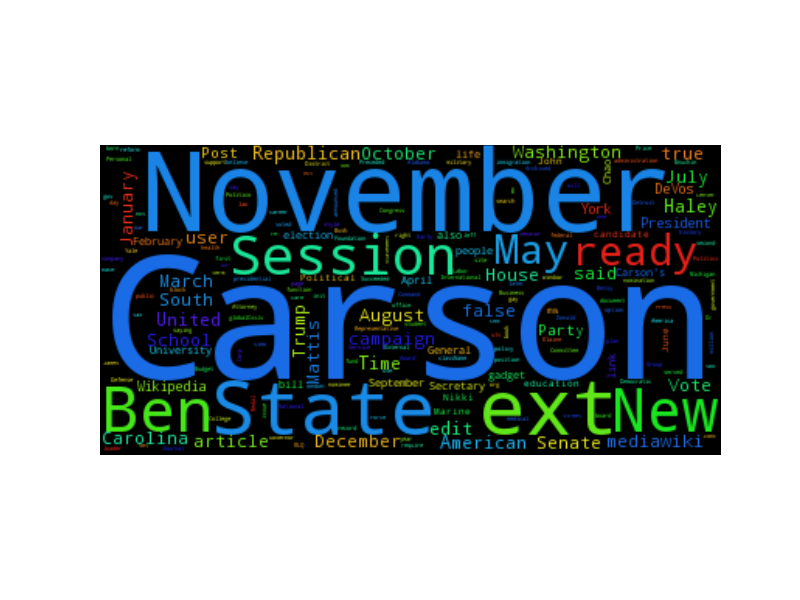
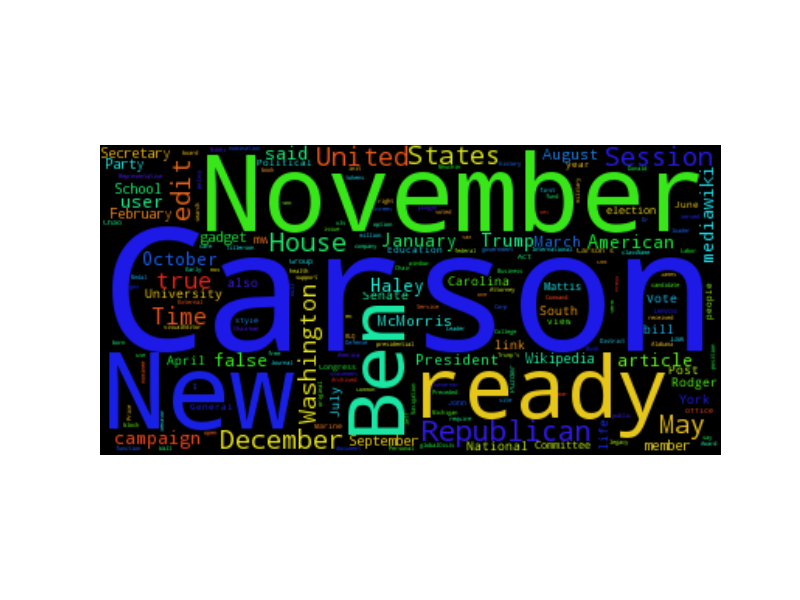
Updated wordcloud images

Changed region(s): [[0.125, 0.24, 0.9062, 0.75]]

diff --git a/src/wiki_word_cloud_generator/wiki_word_cloud/wiki_word_cloud/wiki_word_cloud.py b/src/wiki_word_cloud_generator/wiki_word_cloud/wiki_word_cloud/wiki_word_cloud.py
@@ -31,7 +31,12 @@ members_urls = ["http://en.wikipedia.org/wiki/Jeff_Sessions",
 "http://en.wikipedia.org/wiki/Nikki_Haley",
 "http://en.wikipedia.org/wiki/Elaine_Chao",
 "http://en.wikipedia.org/wiki/Steven_Mnuchin",
-"http://en.wikipedia.org/wiki/Wilbur_Ross"]
+"http://en.wikipedia.org/wiki/Wilbur_Ross",
+"http://en.wikipedia.org/wiki/Rex_Tillerson",
+"http://en.wikipedia.org/wiki/Cathy_McMorris_Rodgers",
+"http://en.wikipedia.org/wiki/Pete_Hegseth",
+"http://en.wikipedia.org/wiki/Andrew_Puzder"
+]
 
 # generate word cloud for all cabinet members
 generator.generate_wordcloud_from_multiple_urls(members_urls, "all_cabinet_members.png")
@@ -43,10 +48,14 @@ orgs_urls = [
 "https://en.wikipedia.org/wiki/Johns_Hopkins_Hospital",
 "https://en.wikipedia.org/wiki/Alliance_for_School_Choice",
 "https://en.wikipedia.org/wiki/News_Corp",
-"https://en.wikipedia.org/wiki/Invesco"]
+"https://en.wikipedia.org/wiki/Invesco",
+"https://en.wikipedia.org/wiki/ExxonMobil",
+"https://en.wikipedia.org/wiki/Vets_For_Freedom",
+"https://en.wikipedia.org/wiki/CKE_Restaurants"
+]
 
 # generate word cloud for all organizations that cabinet members are directly a part of (currently)
-#generator.generate_wordcloud_from_multiple_urls(orgs_urls, "all_cabinet_orgs.png")
+generator.generate_wordcloud_from_multiple_urls(orgs_urls, "all_cabinet_orgs.png")
 
 # generate word cloud for all members AND all related orgs
-#generator.generate_wordcloud_from_multiple_urls(members_urls+orgs_urls, "all_cabinet_members_and_orgs.png")
+generator.generate_wordcloud_from_multiple_urls(members_urls+orgs_urls, "all_cabinet_members_and_orgs.png")

diff --git a/src/wiki_word_cloud_generator/wiki_word_cloud/wiki_word_cloud/WikiWordCloudGenerator.py b/src/wiki_word_cloud_generator/wiki_word_cloud/wiki_word_cloud/WikiWordCloudGenerator.py
@@ -17,6 +17,8 @@ class WikiWordCloudGenerator(object):
         # Generate a word cloud image
         stopwords = set(STOPWORDS)
         stopwords.add("retrieved")
+        stopwords.add("ext")
+        stopwords.add("state")
         wordcloud = WordCloud(stopwords=stopwords).generate(text_to_process)
 
         # Display the generated image:
